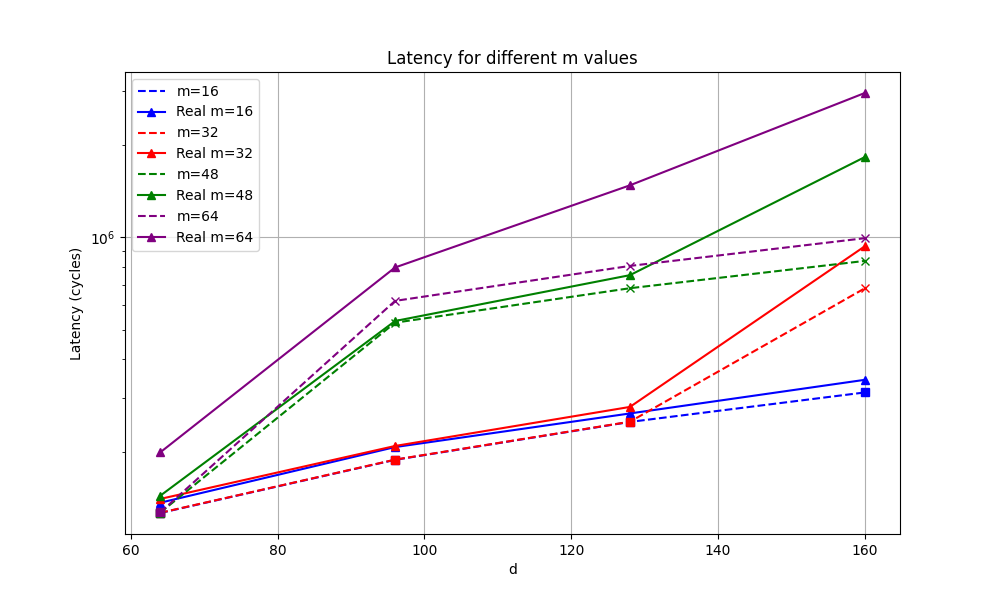
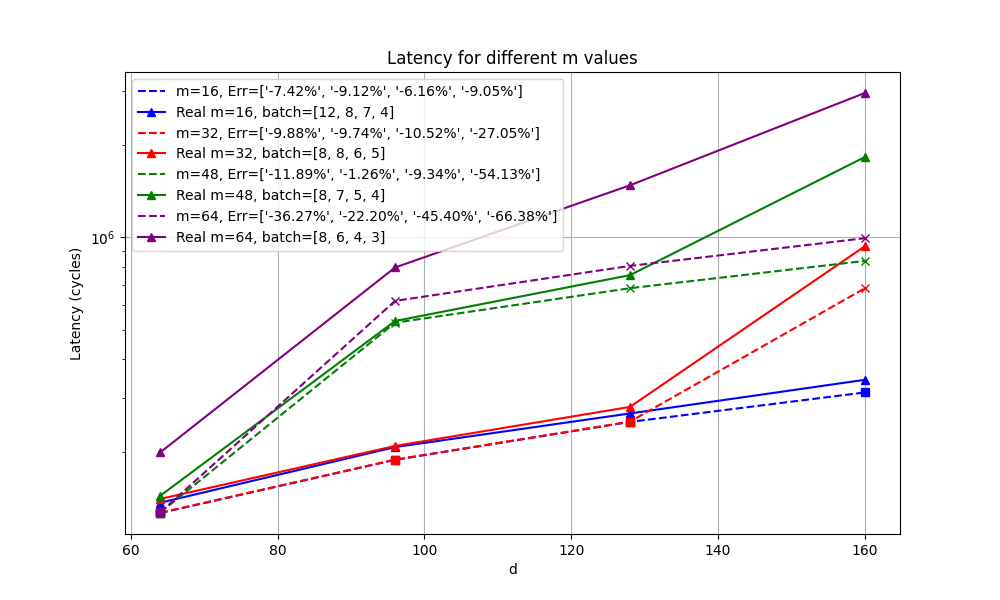
Update memory script

Changed region(s): [[0.155, 0.12, 0.558, 0.42]]

diff --git a/kernels/test_05_05_08_33/extract_memory.py b/kernels/test_05_05_08_33/extract_memory.py
@@ -5,6 +5,7 @@ metrics = {
     "Normal_shmem_ld": "sass__inst_executed_shared_loads", # Number of shared memory load instructions executed other than LDSM
     "Atom_shmem_ld": "smsp__inst_executed_op_shared_atom.sum",
     "LDSM": "smsp__inst_executed_op_ldsm.sum", # LDSM: shmem to register using ldmatrix
+    "L1_local_ld": "l1tex__t_requests_pipe_lsu_mem_local_op_ld.sum", # # of requests sent to T-Stage for local loads
     "LDGSTS": "smsp__inst_executed_op_ldgsts.sum", # # of warp instructions executed: LDGSTS
     "Total_global_ld": "l1tex__t_requests_pipe_lsu_mem_global_op_ld.sum", # # of requests sent to T-Stage for global loads
     "Atom_global_ld": "l1tex__t_requests_pipe_lsu_mem_global_op_atom.sum",
@@ -24,6 +25,7 @@ metrics = {
     "L1_util": "l1tex__throughput.avg.pct_of_peak_sustained_active",
     "L2_util": "lts__throughput.avg.pct_of_peak_sustained_elapsed",
     "DRAM_util": "gpu__dram_throughput.avg.pct_of_peak_sustained_elapsed",
+    "SMs": "launch__sm_count",
 }
 
 def extract_values(ncu_report_file, problem_shape, output_csv):
@@ -45,23 +47,26 @@ def extract_values(ncu_report_file, problem_shape, output_csv):
     assert results["LDGSTS"] == results["LDGSTS_global_ld"]
     L1_to_Global_reqs = results["Total_global_ld"] + results["Atom_global_ld"] - results["LDGSTS_global_ld"]
     L1_to_Shared_reqs = results["Normal_shmem_ld"] + results["Atom_shmem_ld"] + results["LDSM"]
+    L1_to_Local_reqs = results["L1_local_ld"]
     L1_to_Global_traffic = L1_to_Global_reqs * 512
     L1_to_Shared_traffic = L1_to_Shared_reqs * 512
-    L1_to_Reg_traffic = L1_to_Shared_traffic + L1_to_Global_traffic
+    L1_to_Local_traffic = L1_to_Local_reqs * 128
+    L1_to_Reg_traffic = L1_to_Shared_traffic + L1_to_Global_traffic + L1_to_Local_traffic
     L2_to_SharedMemory_traffic = results["LDGSTS_traffic"]
     L2_to_L1Cache_traffic = results["L2_to_L1_traffic"] - L2_to_SharedMemory_traffic
     duration = results["Duration"] * 1e-9
     cycles = results["Cycles"]
 
+    num_SMs = results["SMs"]
     L1_util = results["L1_util"] * 0.01
     L1_bandwidth = L1_to_Reg_traffic / duration / L1_util
-    L1_bandwidth_cycle = L1_to_Reg_traffic / cycles / L1_util / b / h
+    L1_bandwidth_cycle = L1_to_Reg_traffic / cycles / L1_util / num_SMs
     L2_util = results["L2_util"] * 0.01
     L2_bandwidth = results["L2_throughput"] / L2_util
-    L2_bandwidth_cycle = results["L2_to_L1_traffic"] / cycles / L2_util / b / h
+    L2_bandwidth_cycle = results["L2_to_L1_traffic"] / cycles / L2_util / num_SMs
     dram_util = results["DRAM_util"] * 0.01
     DRAM_bandwidth = results["DRAM_throughput"] / dram_util
-    DRAM_bandwidth_cycle = results["DRAM_to_L2_traffic"] / cycles / dram_util / b / h
+    DRAM_bandwidth_cycle = results["DRAM_to_L2_traffic"] / cycles / dram_util / num_SMs
 
     L2_ld_traffic_calc = b * h * (m + n * 2) * d * 2
     # Write to CSV
@@ -70,6 +75,7 @@ def extract_values(ncu_report_file, problem_shape, output_csv):
         f.write(f"L1_to_Reg_traffic,{L1_to_Reg_traffic}\n")
         f.write(f"L1_to_Global_traffic,{L1_to_Global_traffic}\n")
         f.write(f"L1_to_Shared_traffic,{L1_to_Shared_traffic}\n")
+        f.write(f"L1_to_Local_traffic,{L1_to_Local_traffic}\n")
         f.write(f"L2_to_L1_traffic,{results['L2_to_L1_traffic']}\n")
         f.write(f"L2_to_SharedMemory_traffic,{L2_to_SharedMemory_traffic}\n")
         f.write(f"L2_to_L1Cache_traffic,{L2_to_L1Cache_traffic}\n")
@@ -77,6 +83,7 @@ def extract_values(ncu_report_file, problem_shape, output_csv):
         f.write(f"DRAM_to_L2_traffic_calc,{L2_ld_traffic_calc}\n")
         f.write(f"DRAM_to_L2_traffic_err,{(results['DRAM_to_L2_traffic'] - L2_ld_traffic_calc) / L2_ld_traffic_calc}\n")
         f.write(f"duration,{duration}\n")
+        f.write(f"cycles,{cycles}\n")
         f.write(f"L1_util,{L1_util}\n")
         f.write(f"L1_bandwidth,{L1_bandwidth}\n")
         f.write(f"L1_bandwidth_cycle,{L1_bandwidth_cycle}\n")

diff --git a/kernels/test_05_05_08_33/plot_scripts/merge_min_latency.py b/kernels/test_05_05_08_33/plot_scripts/merge_min_latency.py
@@ -2,6 +2,13 @@ import pandas as pd
 import os
 import sys
 
+def extract_b(shape_str):
+    """Extract the B dimension (1st value) from the shape string"""
+    parts = shape_str.split('x')
+    if len(parts) >= 5:
+        return int(parts[0])
+    return 0
+
 def extract_n(shape_str):
     """Extract the N dimension (4th value) from the shape string"""
     parts = shape_str.split('x')
@@ -12,11 +19,14 @@ def extract_n(shape_str):
 def extract_m_d(shape_str):
     # Extract the shape from the string
     shape = shape_str.split("x")
-    if len(shape) != 5:
-        raise ValueError(f"Invalid shape format: {shape_str}")
     int_shape = tuple(map(int, shape))
-    return (int_shape[2], int_shape[4])
-
+    if len(shape) == 5:
+        return (int_shape[2], int_shape[4])
+    elif len(shape) == 4:
+        return (int_shape[1], int_shape[3])
+    else:
+        raise ValueError(f"Invalid shape format: {shape_str}")
+    
 def get_max_latency(filename):
     """Load a shape-latency CSV file and extract the N dimension"""
     df = pd.read_csv(filename)
@@ -38,19 +48,33 @@ sim_dir = "/scratch/zgh23/ThunderKittens/kernels/test_04_15_09_58/profile_result
 
 # Enumerate over all the files start with "output_" under base_dir
 with open(os.path.join(output_dir, "merge_min_latency.csv"), "w") as outf:
-    outf.write("shape,min_latency,simulated_latency,long_simulated_latency\n")
-    for file in os.listdir(base_dir):
+    outf.write("shape,batch_min,min_latency,batch_occupancy,occupancy_latency,simulated_latency,long_simulated_latency\n")
+    base_dir_list = os.listdir(base_dir)
+    # Filter the list to only include files that start with "output_"
+    base_dir_list = [file for file in base_dir_list if file.startswith("output_")]
+    # Sort the list of files based on mxd
+    base_dir_list.sort(key=lambda x: extract_m_d(x.split("_")[1].split(".")[0]))
+    for file in base_dir_list:
         if file.startswith("output_"):
             input_file = os.path.join(base_dir, file)
             with open(input_file, "r") as f:
                 df = pd.read_csv(f)
                 shapes = df["shape"]
                 latencies = df["latency_per_batch"]
-                min_latency = min(latencies)
+                # min_latency = min(latencies)
+                # Get the index of the minimum latency
+                min_index = latencies.idxmin()
+                # Get the shape corresponding to the minimum latency
+                min_shape = shapes[min_index]
+                min_latency = latencies[min_index]
+                batch_calc = extract_b(df.iloc[-3]['shape'])
+                batch_min = extract_b(min_shape)
+                calc_latency = df.iloc[-3]['latency_per_batch']
+
             m, d = extract_m_d(shapes[0])
             simulated_file = os.path.join(base_dir, f"simulated_{m}x{d}.csv")
             simulated_latency = get_max_latency(simulated_file)
             long_simulated_file = os.path.join(sim_dir, f"simulated_13x8x{m}x{d}.csv")
             long_simulated_latency = get_max_latency(long_simulated_file)
-            outf.write(f"{m}x{d},{min_latency},{simulated_latency},{long_simulated_latency}\n")
+            outf.write(f"{m}x{d},{batch_min},{min_latency},{batch_calc},{calc_latency},{simulated_latency},{long_simulated_latency}\n")
         

diff --git a/kernels/test_05_05_08_33/plot_scripts/plot_best_simulated.py b/kernels/test_05_05_08_33/plot_scripts/plot_best_simulated.py
@@ -25,6 +25,8 @@ for sub_id, outer_value in enumerate(outer_list):
     real_latency_list = []
     latency_list = []
     latency_type_list = []
+    batch_list = []
+    err_list = []
     for inner_value in inner_list:
         if mode == "d":
             m = inner_value
@@ -42,12 +44,14 @@ for sub_id, outer_value in enumerate(outer_list):
         latency_list.append(latency)
         latency_type_list.append(latency_type)
         real_latency_list.append(real_latency)
-    plt.plot(inner_list, latency_list, color=colors[sub_id], linestyle='--', label=f"{mode}={outer_value}")
+        batch_list.append(int(cur_df["batch_min"].values[0]))
+        err_list.append(f'{(latency - real_latency) / real_latency:.2%}')
+    plt.plot(inner_list, latency_list, color=colors[sub_id], linestyle='--', label=f"{mode}={outer_value}, Err={err_list}")
     for inner_id in range(len(inner_list)):
         inner_value = inner_list[inner_id]
         latency_type = latency_type_list[inner_id]
         plt.plot(inner_value, latency_list[inner_id], color=colors[sub_id], marker=markers[latency_type])
-    plt.plot(inner_list, real_latency_list, color=colors[sub_id], linestyle='-', marker='^', label=f"Real {mode}={outer_value}")    
+    plt.plot(inner_list, real_latency_list, color=colors[sub_id], linestyle='-', marker='^', label=f"Real {mode}={outer_value}, batch={batch_list}")    
 
 plt.yscale('log')
 if mode == "d":
